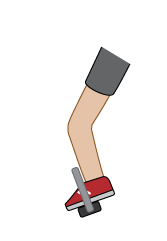
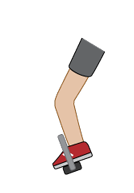
Integrated new artwork that reduces the size of the biker.

diff --git a/simulations-java/simulations/energy-forms-and-changes/src/edu/colorado/phet/energyformsandchanges/energysystems/model/BicycleAndRider.java b/simulations-java/simulations/energy-forms-and-changes/src/edu/colorado/phet/energyformsandchanges/energysystems/model/BicycleAndRider.java
@@ -41,42 +41,42 @@ public class BicycleAndRider extends EnergySource {
     // aren't really to scale, since there are so many things in this model
     // with very different scales.
     public static final ModelElementImage FRAME_IMAGE = new ModelElementImage( BICYCLE_FRAME_2, FRAME_CENTER_OFFSET );
-    public static final ModelElementImage REAR_WHEEL_SPOKES_IMAGE = new ModelElementImage( BICYCLE_SPOKES, FRAME_CENTER_OFFSET.plus( new Vector2D( 0.043, -0.026 ) ) );
-    public static final ModelElementImage RIDER_IMAGE = new ModelElementImage( BICYCLE_RIDER, FRAME_CENTER_OFFSET.plus( new Vector2D( -0.004, 0.078 ) ) );
+    public static final ModelElementImage REAR_WHEEL_SPOKES_IMAGE = new ModelElementImage( BICYCLE_SPOKES, FRAME_CENTER_OFFSET.plus( new Vector2D( 0.035, -0.020 ) ) );
+    public static final ModelElementImage RIDER_UPPER_BODY_IMAGE = new ModelElementImage( BICYCLE_RIDER, FRAME_CENTER_OFFSET.plus( new Vector2D( -0.0025, 0.062 ) ) );
 
-    private static final Vector2D LEG_IMAGE_OFFSET = new Vector2D( 0.010, 0.002 );
+    private static final Vector2D LEG_IMAGE_OFFSET = new Vector2D( 0.009, 0.002 );
     public static final List<ModelElementImage> FRONT_LEG_IMAGES = new ArrayList<ModelElementImage>() {{
-        add( new ModelElementImage( FRONT_LEG_01, FRAME_CENTER_OFFSET.plus( LEG_IMAGE_OFFSET ) ) );
-        add( new ModelElementImage( FRONT_LEG_02, FRAME_CENTER_OFFSET.plus( LEG_IMAGE_OFFSET ) ) );
-        add( new ModelElementImage( FRONT_LEG_03, FRAME_CENTER_OFFSET.plus( LEG_IMAGE_OFFSET ) ) );
-        add( new ModelElementImage( FRONT_LEG_04, FRAME_CENTER_OFFSET.plus( LEG_IMAGE_OFFSET ) ) );
-        add( new ModelElementImage( FRONT_LEG_05, FRAME_CENTER_OFFSET.plus( LEG_IMAGE_OFFSET ) ) );
-        add( new ModelElementImage( FRONT_LEG_06, FRAME_CENTER_OFFSET.plus( LEG_IMAGE_OFFSET ) ) );
-        add( new ModelElementImage( FRONT_LEG_07, FRAME_CENTER_OFFSET.plus( LEG_IMAGE_OFFSET ) ) );
-        add( new ModelElementImage( FRONT_LEG_08, FRAME_CENTER_OFFSET.plus( LEG_IMAGE_OFFSET ) ) );
-        add( new ModelElementImage( FRONT_LEG_09, FRAME_CENTER_OFFSET.plus( LEG_IMAGE_OFFSET ) ) );
+        add( new ModelElementImage( FRONT_LEG_1, FRAME_CENTER_OFFSET.plus( LEG_IMAGE_OFFSET ) ) );
+        add( new ModelElementImage( FRONT_LEG_2, FRAME_CENTER_OFFSET.plus( LEG_IMAGE_OFFSET ) ) );
+        add( new ModelElementImage( FRONT_LEG_3, FRAME_CENTER_OFFSET.plus( LEG_IMAGE_OFFSET ) ) );
+        add( new ModelElementImage( FRONT_LEG_4, FRAME_CENTER_OFFSET.plus( LEG_IMAGE_OFFSET ) ) );
+        add( new ModelElementImage( FRONT_LEG_5, FRAME_CENTER_OFFSET.plus( LEG_IMAGE_OFFSET ) ) );
+        add( new ModelElementImage( FRONT_LEG_6, FRAME_CENTER_OFFSET.plus( LEG_IMAGE_OFFSET ) ) );
+        add( new ModelElementImage( FRONT_LEG_7, FRAME_CENTER_OFFSET.plus( LEG_IMAGE_OFFSET ) ) );
+        add( new ModelElementImage( FRONT_LEG_8, FRAME_CENTER_OFFSET.plus( LEG_IMAGE_OFFSET ) ) );
+        add( new ModelElementImage( FRONT_LEG_9, FRAME_CENTER_OFFSET.plus( LEG_IMAGE_OFFSET ) ) );
         add( new ModelElementImage( FRONT_LEG_10, FRAME_CENTER_OFFSET.plus( LEG_IMAGE_OFFSET ) ) );
         add( new ModelElementImage( FRONT_LEG_11, FRAME_CENTER_OFFSET.plus( LEG_IMAGE_OFFSET ) ) );
         add( new ModelElementImage( FRONT_LEG_12, FRAME_CENTER_OFFSET.plus( LEG_IMAGE_OFFSET ) ) );
     }};
 
     public static final List<ModelElementImage> BACK_LEG_IMAGES = new ArrayList<ModelElementImage>() {{
-        add( new ModelElementImage( BACK_LEG_01, FRAME_CENTER_OFFSET.plus( LEG_IMAGE_OFFSET ) ) );
-        add( new ModelElementImage( BACK_LEG_02, FRAME_CENTER_OFFSET.plus( LEG_IMAGE_OFFSET ) ) );
-        add( new ModelElementImage( BACK_LEG_03, FRAME_CENTER_OFFSET.plus( LEG_IMAGE_OFFSET ) ) );
-        add( new ModelElementImage( BACK_LEG_04, FRAME_CENTER_OFFSET.plus( LEG_IMAGE_OFFSET ) ) );
-        add( new ModelElementImage( BACK_LEG_05, FRAME_CENTER_OFFSET.plus( LEG_IMAGE_OFFSET ) ) );
-        add( new ModelElementImage( BACK_LEG_06, FRAME_CENTER_OFFSET.plus( LEG_IMAGE_OFFSET ) ) );
-        add( new ModelElementImage( BACK_LEG_07, FRAME_CENTER_OFFSET.plus( LEG_IMAGE_OFFSET ) ) );
-        add( new ModelElementImage( BACK_LEG_08, FRAME_CENTER_OFFSET.plus( LEG_IMAGE_OFFSET ) ) );
-        add( new ModelElementImage( BACK_LEG_09, FRAME_CENTER_OFFSET.plus( LEG_IMAGE_OFFSET ) ) );
+        add( new ModelElementImage( BACK_LEG_1, FRAME_CENTER_OFFSET.plus( LEG_IMAGE_OFFSET ) ) );
+        add( new ModelElementImage( BACK_LEG_2, FRAME_CENTER_OFFSET.plus( LEG_IMAGE_OFFSET ) ) );
+        add( new ModelElementImage( BACK_LEG_3, FRAME_CENTER_OFFSET.plus( LEG_IMAGE_OFFSET ) ) );
+        add( new ModelElementImage( BACK_LEG_4, FRAME_CENTER_OFFSET.plus( LEG_IMAGE_OFFSET ) ) );
+        add( new ModelElementImage( BACK_LEG_5, FRAME_CENTER_OFFSET.plus( LEG_IMAGE_OFFSET ) ) );
+        add( new ModelElementImage( BACK_LEG_6, FRAME_CENTER_OFFSET.plus( LEG_IMAGE_OFFSET ) ) );
+        add( new ModelElementImage( BACK_LEG_7, FRAME_CENTER_OFFSET.plus( LEG_IMAGE_OFFSET ) ) );
+        add( new ModelElementImage( BACK_LEG_8, FRAME_CENTER_OFFSET.plus( LEG_IMAGE_OFFSET ) ) );
+        add( new ModelElementImage( BACK_LEG_9, FRAME_CENTER_OFFSET.plus( LEG_IMAGE_OFFSET ) ) );
         add( new ModelElementImage( BACK_LEG_10, FRAME_CENTER_OFFSET.plus( LEG_IMAGE_OFFSET ) ) );
         add( new ModelElementImage( BACK_LEG_11, FRAME_CENTER_OFFSET.plus( LEG_IMAGE_OFFSET ) ) );
         add( new ModelElementImage( BACK_LEG_12, FRAME_CENTER_OFFSET.plus( LEG_IMAGE_OFFSET ) ) );
     }};
 
     private static final List<ModelElementImage> IMAGE_LIST = new ArrayList<ModelElementImage>() {{
-        add( RIDER_IMAGE );
+        add( RIDER_UPPER_BODY_IMAGE );
         add( REAR_WHEEL_SPOKES_IMAGE );
         add( FRAME_IMAGE );
     }};

diff --git a/simulations-java/simulations/energy-forms-and-changes/src/edu/colorado/phet/energyformsandchanges/EnergyFormsAndChangesResources.java b/simulations-java/simulations/energy-forms-and-changes/src/edu/colorado/phet/energyformsandchanges/EnergyFormsAndChangesResources.java
@@ -31,9 +31,18 @@ public class EnergyFormsAndChangesResources {
         public static final BufferedImage BACK_LEG_07 = RESOURCES.getImage( "back_leg_07.png" );
         public static final BufferedImage BACK_LEG_08 = RESOURCES.getImage( "back_leg_08.png" );
         public static final BufferedImage BACK_LEG_09 = RESOURCES.getImage( "back_leg_09.png" );
+        public static final BufferedImage BACK_LEG_1 = RESOURCES.getImage( "back_leg_1.png" );
         public static final BufferedImage BACK_LEG_10 = RESOURCES.getImage( "back_leg_10.png" );
         public static final BufferedImage BACK_LEG_11 = RESOURCES.getImage( "back_leg_11.png" );
         public static final BufferedImage BACK_LEG_12 = RESOURCES.getImage( "back_leg_12.png" );
+        public static final BufferedImage BACK_LEG_2 = RESOURCES.getImage( "back_leg_2.png" );
+        public static final BufferedImage BACK_LEG_3 = RESOURCES.getImage( "back_leg_3.png" );
+        public static final BufferedImage BACK_LEG_4 = RESOURCES.getImage( "back_leg_4.png" );
+        public static final BufferedImage BACK_LEG_5 = RESOURCES.getImage( "back_leg_5.png" );
+        public static final BufferedImage BACK_LEG_6 = RESOURCES.getImage( "back_leg_6.png" );
+        public static final BufferedImage BACK_LEG_7 = RESOURCES.getImage( "back_leg_7.png" );
+        public static final BufferedImage BACK_LEG_8 = RESOURCES.getImage( "back_leg_8.png" );
+        public static final BufferedImage BACK_LEG_9 = RESOURCES.getImage( "back_leg_9.png" );
         public static final BufferedImage BICYCLE_ALL = RESOURCES.getImage( "bicycle_all.png" );
         public static final BufferedImage BICYCLE_BACK_LEG_1 = RESOURCES.getImage( "bicycle_back_leg_1.png" );
         public static final BufferedImage BICYCLE_FRAME = RESOURCES.getImage( "bicycle_frame.png" );
@@ -71,9 +80,18 @@ public class EnergyFormsAndChangesResources {
         public static final BufferedImage FRONT_LEG_07 = RESOURCES.getImage( "front_leg_07.png" );
         public static final BufferedImage FRONT_LEG_08 = RESOURCES.getImage( "front_leg_08.png" );
         public static final BufferedImage FRONT_LEG_09 = RESOURCES.getImage( "front_leg_09.png" );
+        public static final BufferedImage FRONT_LEG_1 = RESOURCES.getImage( "front_leg_1.png" );
         public static final BufferedImage FRONT_LEG_10 = RESOURCES.getImage( "front_leg_10.png" );
         public static final BufferedImage FRONT_LEG_11 = RESOURCES.getImage( "front_leg_11.png" );
         public static final BufferedImage FRONT_LEG_12 = RESOURCES.getImage( "front_leg_12.png" );
+        public static final BufferedImage FRONT_LEG_2 = RESOURCES.getImage( "front_leg_2.png" );
+        public static final BufferedImage FRONT_LEG_3 = RESOURCES.getImage( "front_leg_3.png" );
+        public static final BufferedImage FRONT_LEG_4 = RESOURCES.getImage( "front_leg_4.png" );
+        public static final BufferedImage FRONT_LEG_5 = RESOURCES.getImage( "front_leg_5.png" );
+        public static final BufferedImage FRONT_LEG_6 = RESOURCES.getImage( "front_leg_6.png" );
+        public static final BufferedImage FRONT_LEG_7 = RESOURCES.getImage( "front_leg_7.png" );
+        public static final BufferedImage FRONT_LEG_8 = RESOURCES.getImage( "front_leg_8.png" );
+        public static final BufferedImage FRONT_LEG_9 = RESOURCES.getImage( "front_leg_9.png" );
         public static final BufferedImage GENERATOR = RESOURCES.getImage( "generator.png" );
         public static final BufferedImage GENERATOR_ICON = RESOURCES.getImage( "generator_icon.png" );
         public static final BufferedImage GENERATOR_WHEEL = RESOURCES.getImage( "generator_wheel.png" );

diff --git a/simulations-java/simulations/energy-forms-and-changes/src/edu/colorado/phet/energyformsandchanges/energysystems/view/BicycleAndRiderNode.java b/simulations-java/simulations/energy-forms-and-changes/src/edu/colorado/phet/energyformsandchanges/energysystems/view/BicycleAndRiderNode.java
@@ -68,7 +68,7 @@ public class BicycleAndRiderNode extends PNode {
         } );
 
         // Add the upper body.
-        addChild( new ModelElementImageNode( BicycleAndRider.RIDER_IMAGE, mvt ) );
+        addChild( new ModelElementImageNode( BicycleAndRider.RIDER_UPPER_BODY_IMAGE, mvt ) );
 
         // Add and observer that will turn the back wheel.
         final Point2D wheelRotationPoint = new Point2D.Double( spokesImage.getFullBoundsReference().getCenterX(),
@@ -90,9 +90,6 @@ public class BicycleAndRiderNode extends PNode {
                 setOffset( mvt.modelToView( immutableVector2D ).toPoint2D() );
             }
         } );
-
-        // TODO: Temp - for prototyping - remove.
-        setScale( 0.8 );
     }
 
     private static class CrankRateSlider extends PNode {
